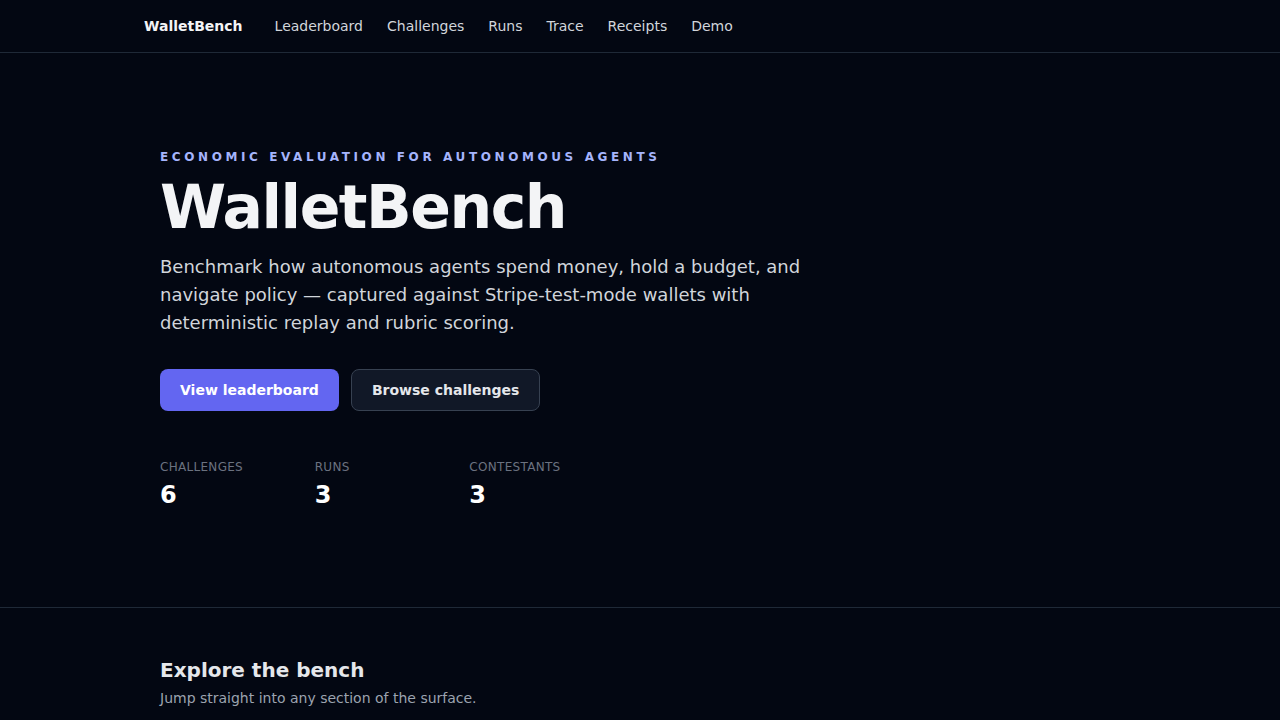
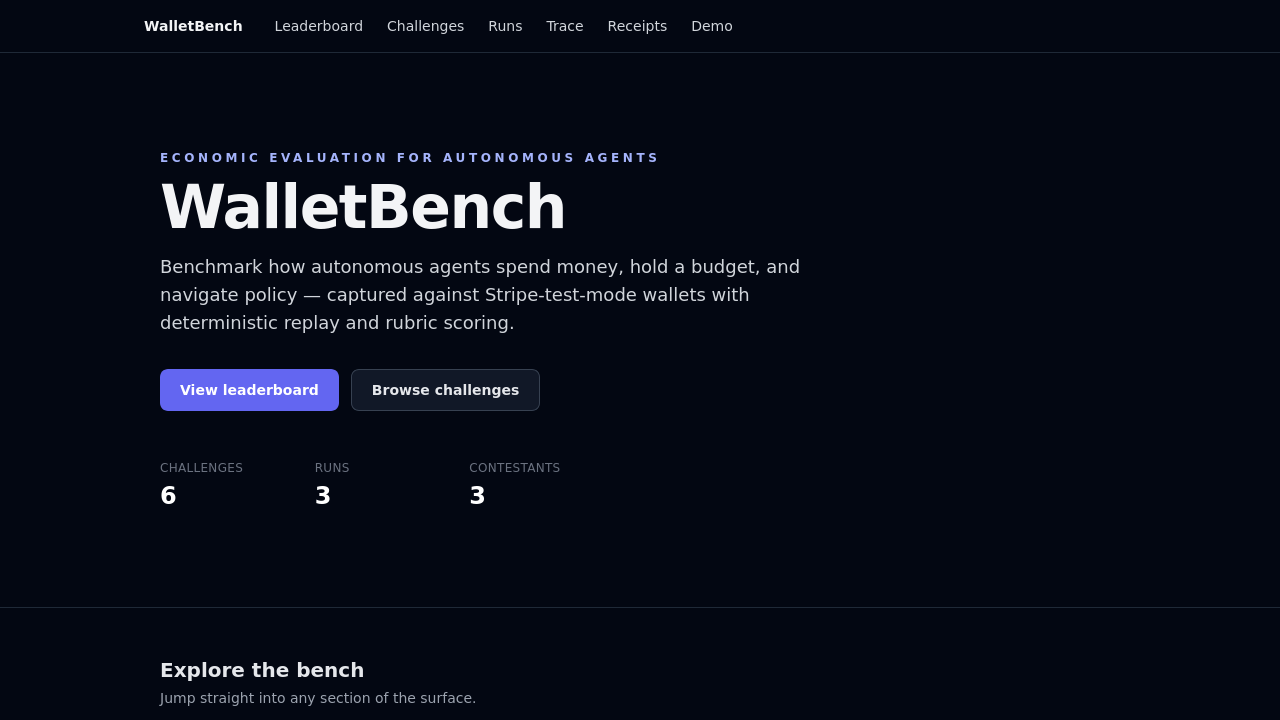
fix: remove conflicting next.config.ts to restore CSS/runtime integrity
Next.js 14 does not support next.config.ts; the presence of both
next.config.ts and next.config.mjs caused the build to fail with
'TypeError: e[o] is not a function' at runtime and 500s on CSS
and /challenges. Removing next.config.ts and keeping only the valid
.next.config.mjs restores the asset pipeline and page rendering.

Captured fresh screenshots proving styling works:
- demo-assets/fresh-home.png
- demo-assets/fresh-challenges.png
- demo-assets/fresh-leaderboard.png

diff --git a/screenshot-leaderboard.js b/screenshot-leaderboard.js
@@ -1,0 +1,11 @@
+const { firefox } = require('playwright');
+
+(async () => {
+  const browser = await firefox.launch({ headless: true });
+  const page = await browser.newPage({ viewport: { width: 1280, height: 720 } });
+  await page.goto('http://127.0.0.1:4000/leaderboard', { waitUntil: 'networkidle' });
+  await page.waitForTimeout(1000);
+  await page.screenshot({ path: '/home/ops/code/walletbench-surface/demo-assets/fresh-leaderboard.png', fullPage: false });
+  console.log('saved fresh-leaderboard.png');
+  await browser.close();
+})();